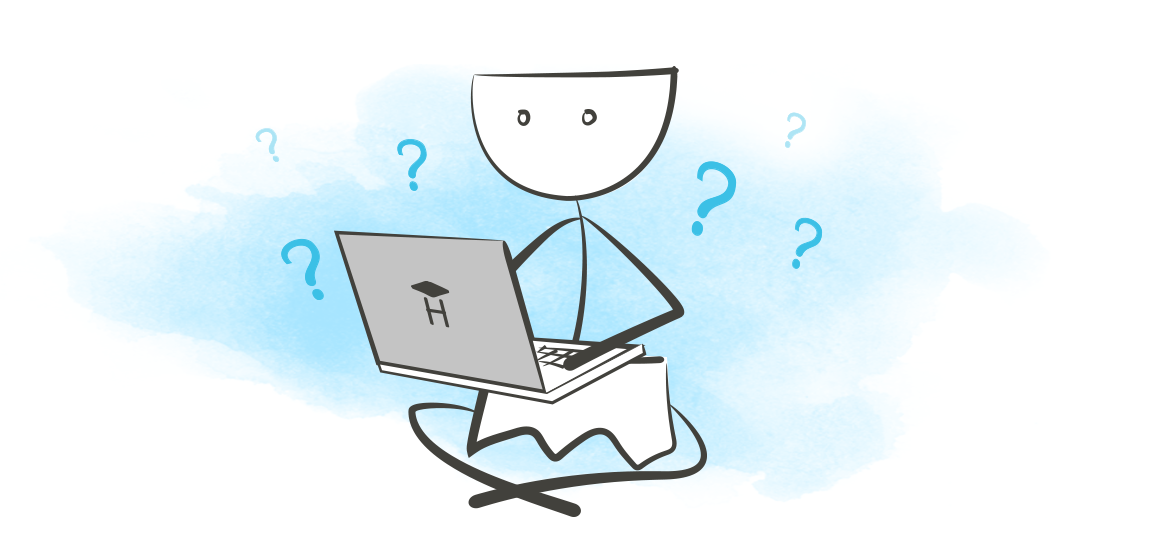
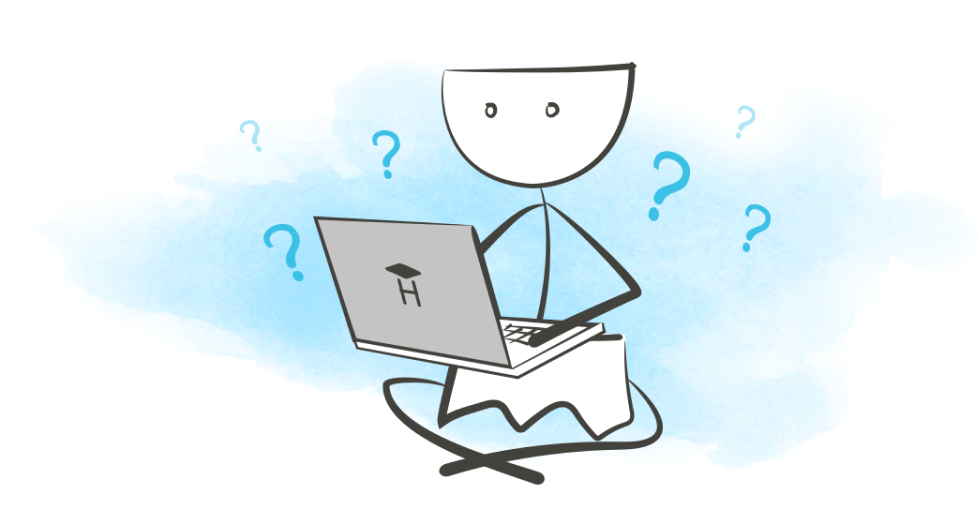
fixed header

diff --git a/src/styles/style.css b/src/styles/style.css
@@ -127,12 +127,13 @@ a{
    --size:1100px;
    max-width: var(--size);
    margin: 0px auto;
-   position: relative;
+   /* position: relative; */
 }
 
 .header{
    padding: 100px 0;
    background: var(--color-light);
+   overflow: hidden;
 }
 
 .header-bg{
@@ -148,14 +149,15 @@ a{
    bottom: 0;
    background-image: url(../images/background.png);
    background-repeat: no-repeat;
+   background-size: cover;
 }
 
 .header-img {
    position: absolute;
     max-height: 525px;
     max-width: 100%;
-    top: -55px;
-    right: -290px;
+    top: 55px;
+    right: -55px;
 }
 
 .header-img img{
@@ -189,6 +191,7 @@ a{
 /* video */
 .video-block{
    position: relative;
+   overflow: hidden;
 }
 
 .video-title{
@@ -372,7 +375,6 @@ a{
    font-family: Open Sans;
    font-weight: bold;
    font-size: 14px;
-   line-height: 17px;
    padding: 5px 0 5px 10px;
    text-transform: uppercase;
 }
